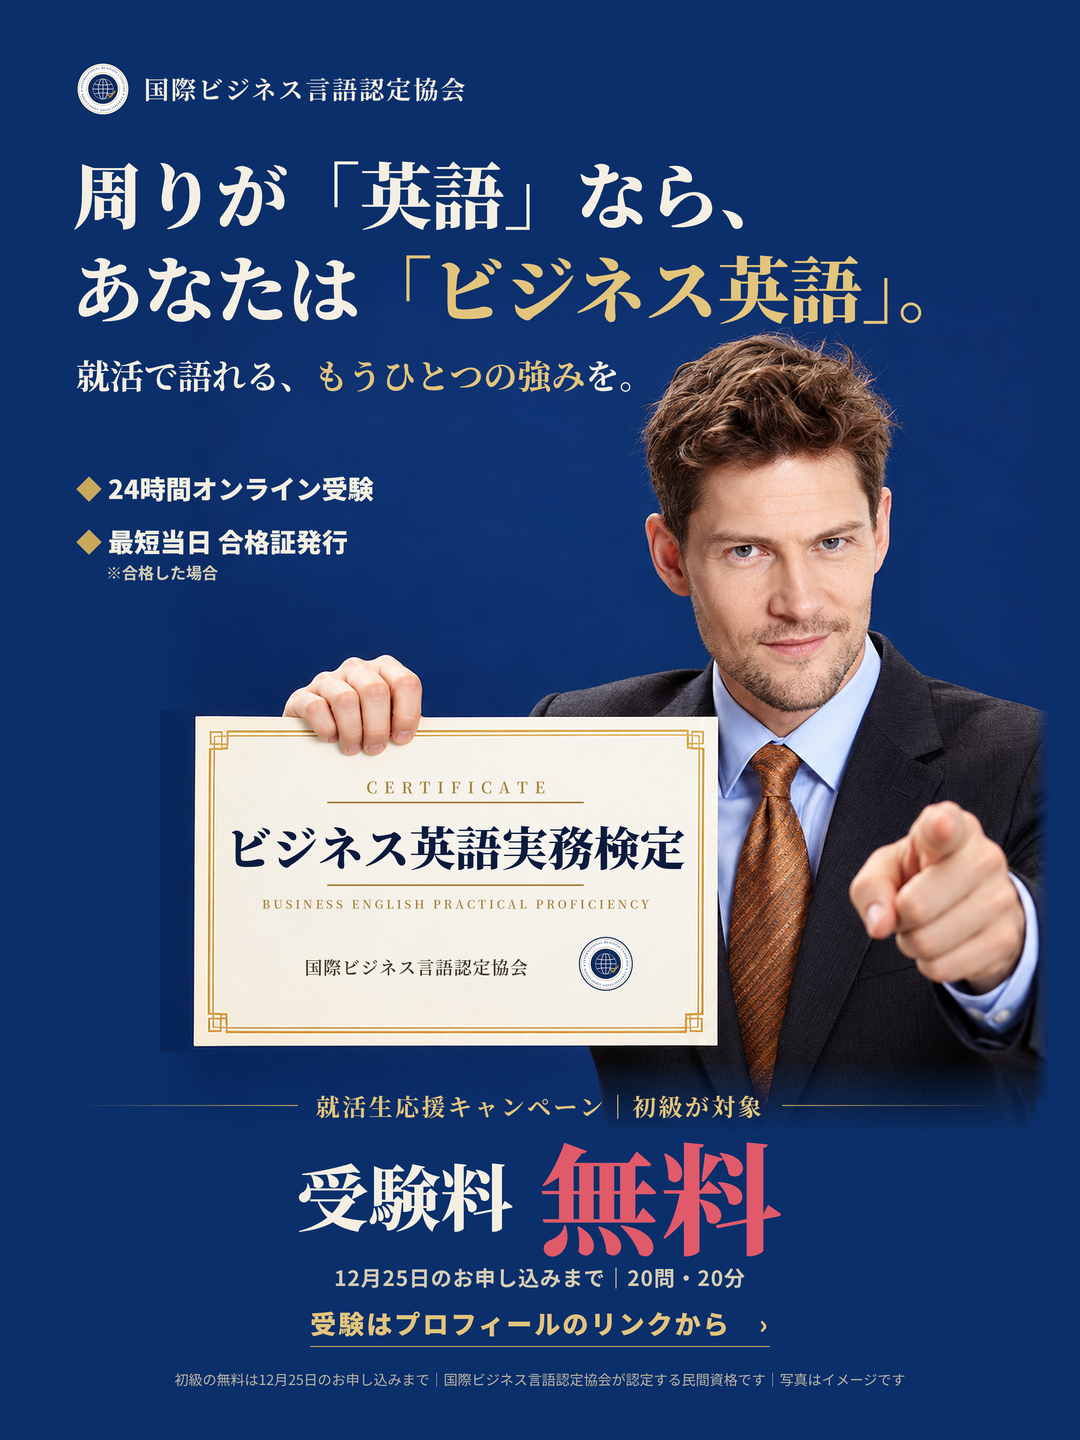
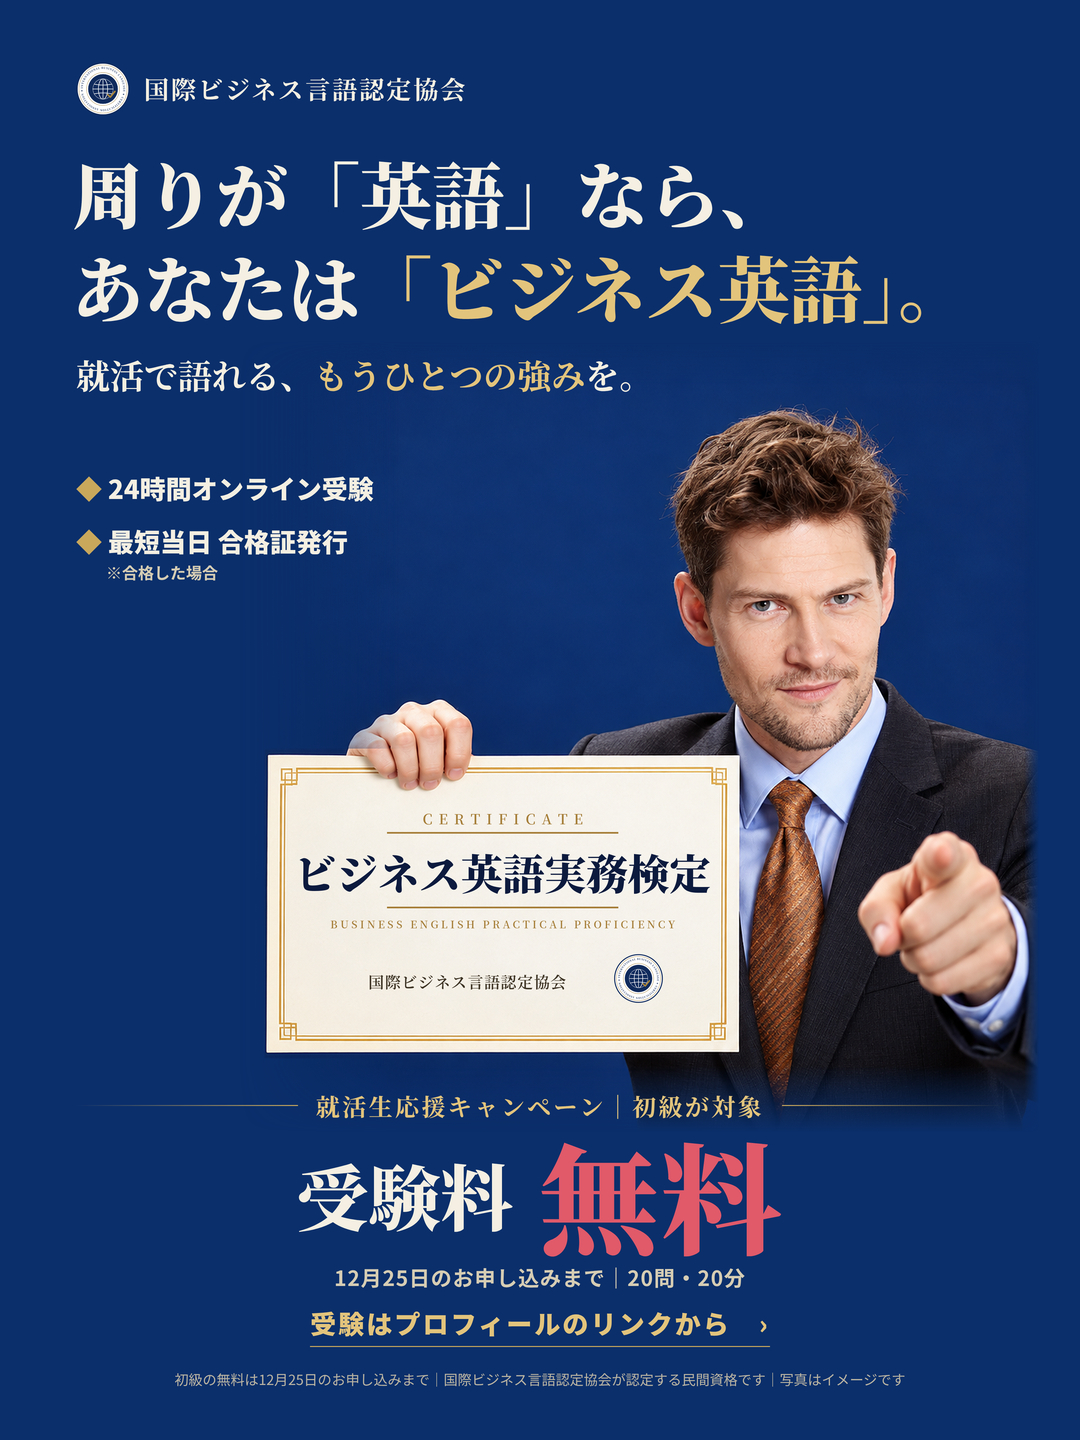
写真モデル版インスタ：人物を小さく
Claude-Session: https://claude.ai/code/session_014p5jL2LKN9C3tYKst8GaL5

Changed region(s): [[0.1528, 0.2188, 0.9778, 0.7812]]

diff --git a/content/posters/multi/layer2.py b/content/posters/multi/layer2.py
@@ -6,7 +6,7 @@ def build(srcp,out,CW,CH,L,T,s0,box,paper,K=3,yoff=0,fadeb=1040):
     src=Image.open(srcp).convert('RGBA');W,H=src.size
     s=s0*K;L*=K;T*=K
     yy=np.arange(H)[:,None];xx=np.arange(W)[None,:]
-    left=np.clip(xx/60,0,1)*np.ones((H,1));left[py0-10:py1+10,:]=1
+    left=np.clip(xx/220,0,1)**1.5*np.ones((H,1));left[py0-10:py1+10,px0-4:]=1
     a=left*np.clip((W-1-xx)/20,0,1)*np.clip((yy-30)/60,0,1)*np.clip((fadeb-yy)/90,0,1)
     b=np.array(src);b[...,3]=(a*255).astype(np.uint8)
     big=Image.fromarray(b).resize((int(W*s),int(H*s)),Image.LANCZOS)

diff --git a/log/posted.md b/log/posted.md
@@ -114,3 +114,4 @@
 - 2026-10-30 作成｜Instagram 固定投稿用 v28｜下部を中央そろえの1列に：線ではさんだ「就活生応援キャンペーン｜初級が対象」→「受験料 無料」→締め切り→リンク｜未投稿
 - 2026-10-30 作成｜キャンペーン v28 の SNS 別版｜assets/images/campaign_v28/（TikTok 1080×1920＋2秒動画〈QR /tiktok・検索案内・縦長スマホの余白基準〉／Instagram 1080×1440／X 1080×1350〈プロフィール・返信のリンク〉）｜未投稿
 - 2026-10-30 作成｜キャンペーン v28 写真モデル版（オーナーが使用許可を取得済みと確認）｜assets/images/campaign_v28_photo/（Instagram・TikTok＋2秒動画・X）｜注記は「写真はイメージです」｜未投稿
+- 2026-10-30 修正｜写真モデル版のインスタ固定用：人物を約1割小さく、左端の境目をなじませ直し
